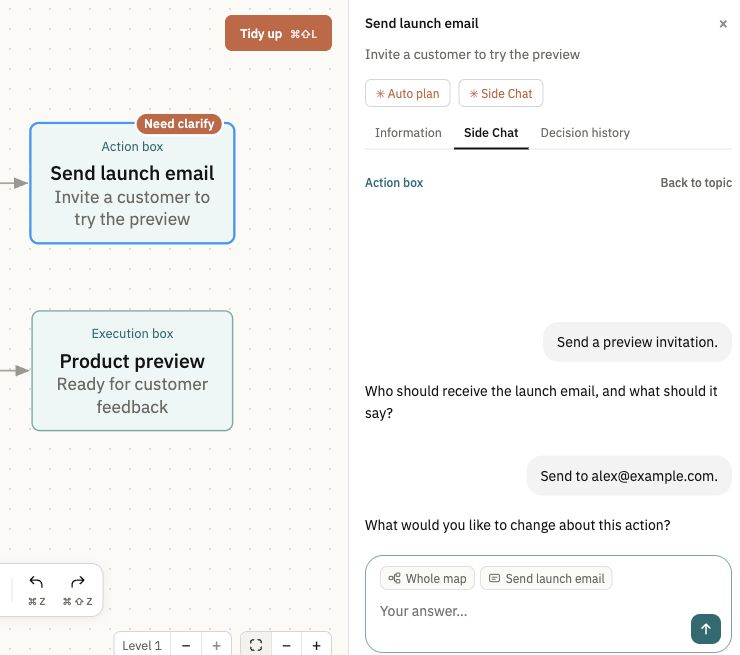
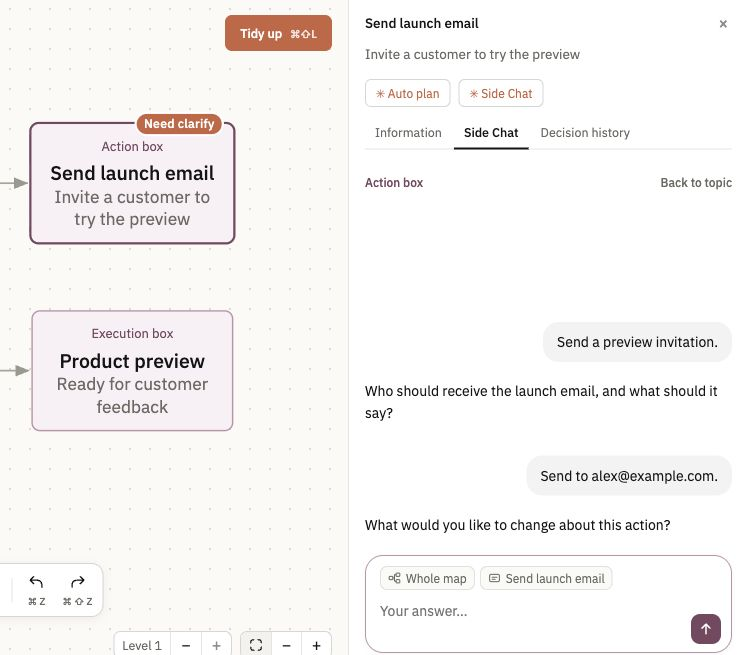
Refresh the Action box log screenshot for the plum theme

diff --git a/CHANGELOG.md b/CHANGELOG.md
@@ -8,9 +8,9 @@ Recent changes you can use in the current release of Living Map, newest first. D
 <dt><strong>✨ [New feature] Action boxes in Side Chat</strong></dt>
 <dd>
 
-Choose **Action box**, write your task in **Side Chat**, answer clarifications with **Enter**, then review and **Execute** in Claude. Teal boxes show spinning progress or a **Need clarify** pill. [#160](https://github.com/HiAnur/anur-living-map/pull/160), [#164](https://github.com/HiAnur/anur-living-map/pull/164) <!-- merged-at: 2026-11-07T23:56:20Z -->
+Choose **Action box**, write your task in **Side Chat**, answer clarifications with **Enter**, then review and **Execute** in Claude. Plum boxes show spinning progress or a **Need clarify** pill. [#164](https://github.com/HiAnur/anur-living-map/pull/164), [#166](https://github.com/HiAnur/anur-living-map/pull/166) <!-- merged-at: 2026-11-08T00:08:33Z -->
 
-<img src="docs/shipping/2026-11-07/action-side-chat.png" alt="Teal Action and Execution boxes beside Side Chat, with a Need clarify pill, the question and answer history, and the reply composer." width="640">
+<img src="docs/shipping/2026-11-07/action-side-chat.png" alt="Plum Action and Execution boxes beside Side Chat, with a Need clarify pill, the question and answer history, and the reply composer." width="640">
 
 </dd>
 </dl>
